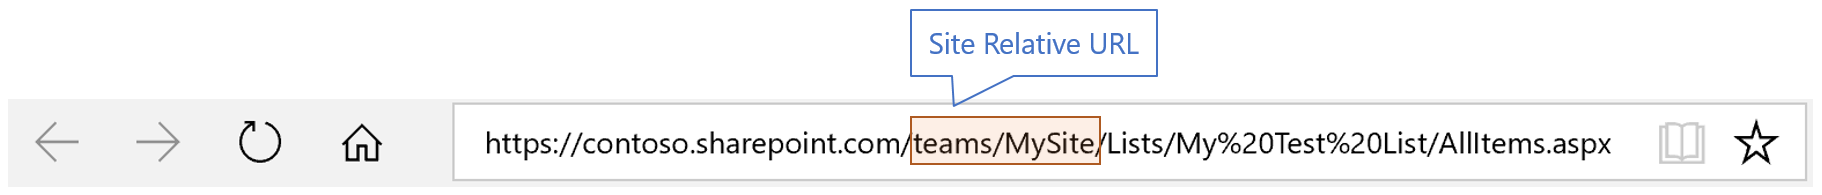
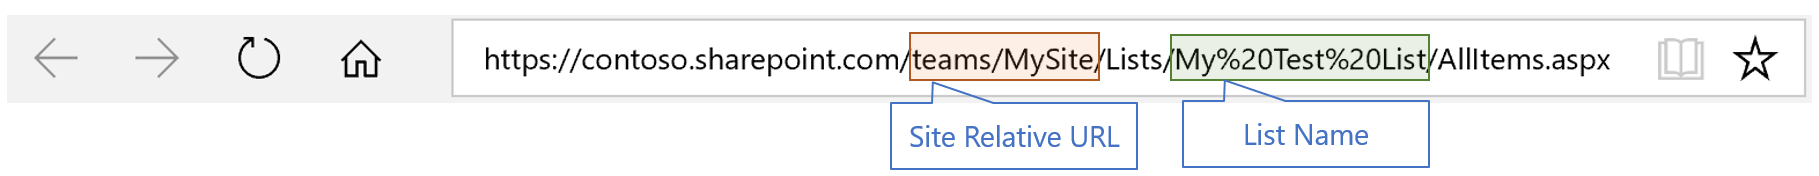
fixing some issues

diff --git a/README.md b/README.md
@@ -22,6 +22,6 @@ You need to register an application to be able to access the Microsoft Graph API
 1. Open your PowerShell script and replace the `YourAppIdHere` with the Application Id for your application you just registered
 2. Now add your Site Relative URL and the List Name by replacing the values of `YourSiteRelativeUrlHere` and `YourListNameHere`
 
-> ### What is my Site Relative URL?
-> The script consider your relative URL as shown in the image below:
+> ### What is my _Site Relative URL_ and my _List Name_?
+> The script consider your relative URL and your List Name as shown in the image below:
 > ![Relative Site](./_pictures/Site-Relative-URL.PNG)
